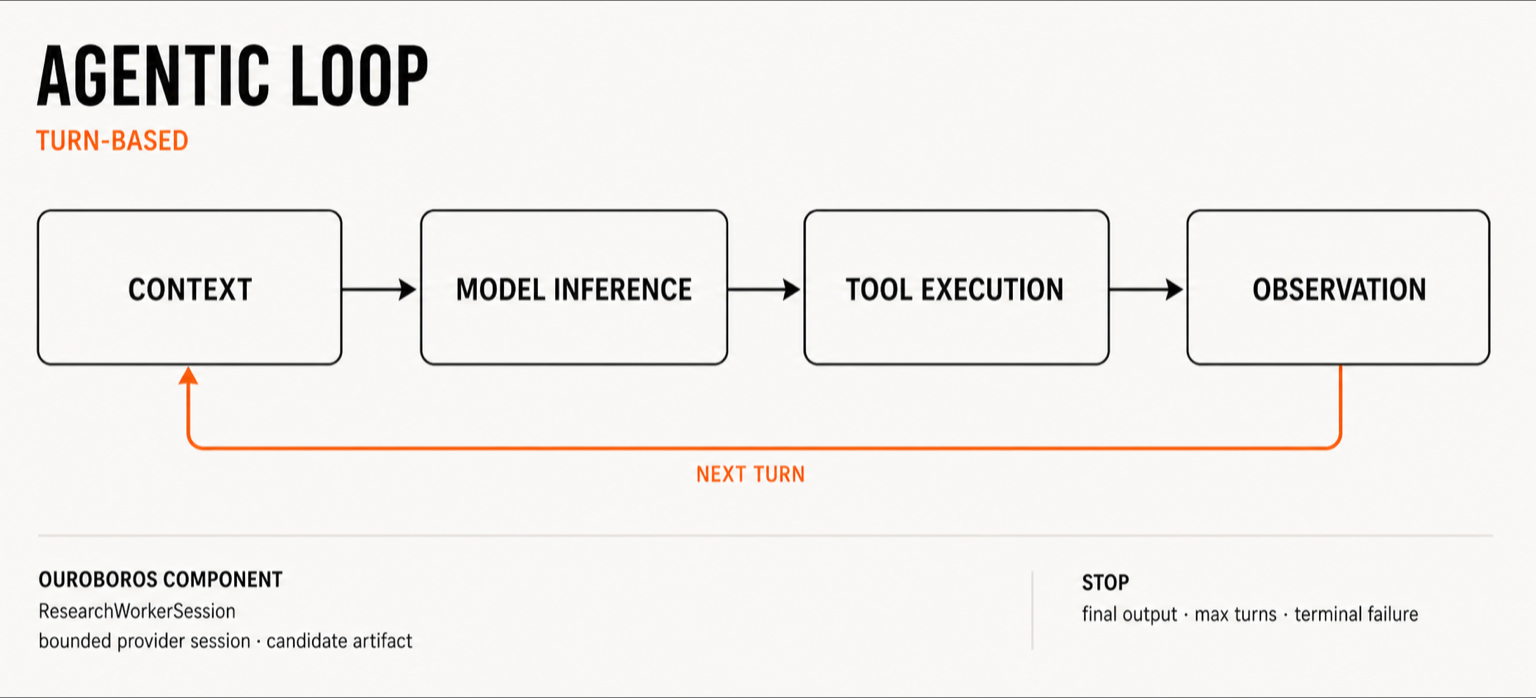
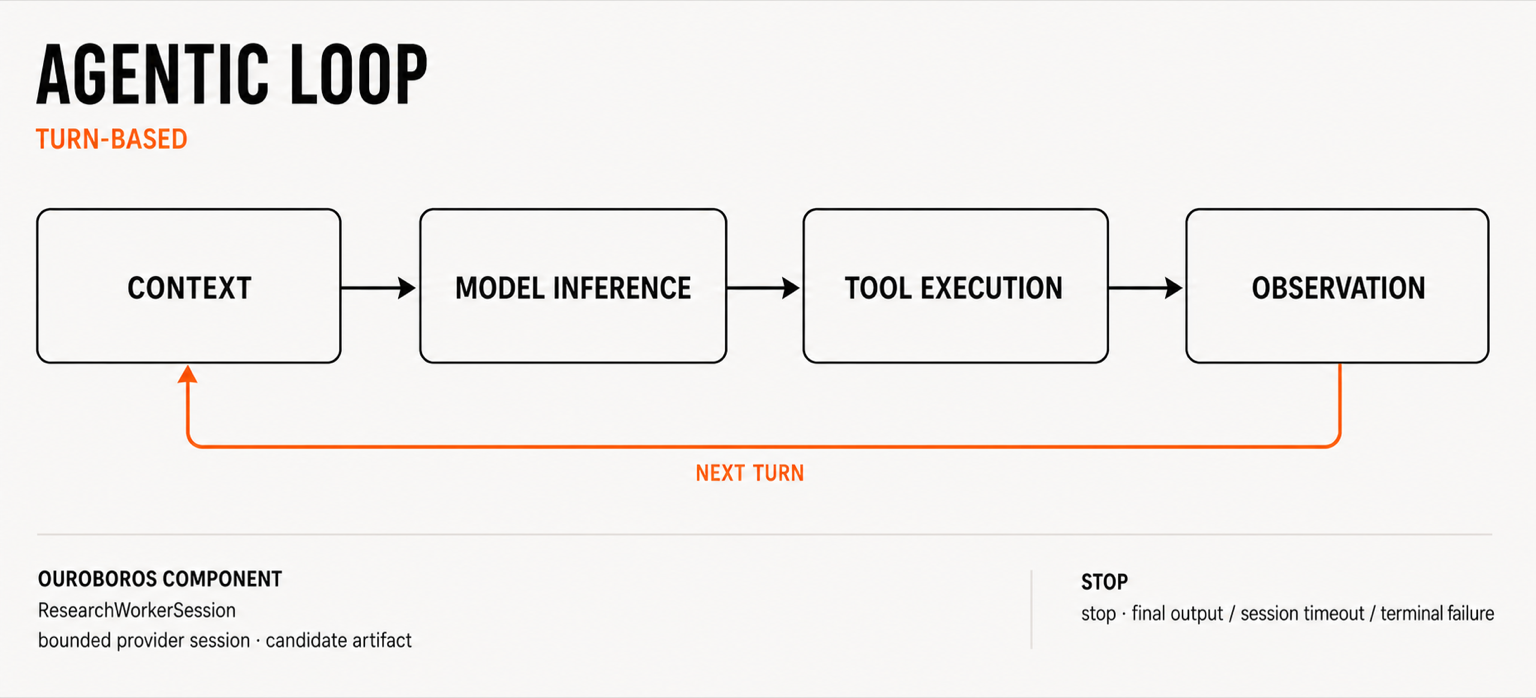
docs: align loop stop semantics

diff --git a/docs/superpowers/plans/2026-07-29-readme-loop-illustrations.md b/docs/superpowers/plans/2026-07-29-readme-loop-illustrations.md
@@ -98,7 +98,7 @@ Primary request: Explain one Agent Loop and why it repeats.
 Style reference: match the approved Ouroboros system-structure image exactly in background, line weight, typography, spacing, and orange use.
 Composition: one clockwise path around a wide soft rounded rectangle, never a circle. Large stages run left to right across the top and return along the bottom.
 Large text verbatim: "AGENTIC LOOP", "TURN-BASED", "CONTEXT", "MODEL INFERENCE", "TOOL EXECUTION", "OBSERVATION".
-Small text verbatim: "ResearchWorkerSession", "bounded provider session · candidate artifact", "stop · final output / max turns / terminal failure".
+Small text verbatim: "ResearchWorkerSession", "bounded provider session · candidate artifact", "stop · final output / session timeout / terminal failure".
 Color: black structure, orange return path from OBSERVATION to CONTEXT.
 Constraints: one loop only, strong hierarchy between large portable terms and small Ouroboros mapping, large calm whitespace.
 Avoid: other scopes, comparison grid, legend, headline, hands, people, robot, chart, logo, gradient, dark background, UI cards, shadow, 3D.
@@ -116,7 +116,8 @@ Style reference: match the approved Ouroboros system-structure image exactly in 
 Composition: one clockwise path around a wide soft rounded rectangle, never a circle. Large stages run left to right across the top and return along the bottom.
 Large text verbatim: "EVALUATION LOOP", "GOAL-BASED", "SUCCESS CRITERIA", "ITERATION", "EVALUATION", "SELECTION".
 Small text verbatim: "ResearchPreflightCommitment", "methodology · development + sealed-admission limits", "SystemCode · explicit frozen selection".
-Color: black structure, orange return path from EVALUATION to SUCCESS CRITERIA. SELECTION is a
+Color: black structure, orange return path from EVALUATION to ITERATION. SUCCESS CRITERIA is an
+immutable initial input and is not the target of the return path. SELECTION is a
 separate terminal node reached by one black arrow from EVALUATION and has no outgoing return.
 Constraints: one loop only, one purpose only, large calm whitespace.
 Avoid: other scopes, comparison grid, legend, headline, hands, people, robot, trading chart, logo, gradient, dark background, UI cards, shadow, 3D.

diff --git a/README.md b/README.md
@@ -143,8 +143,8 @@ modes, not exclusive runtime type constraints.
 
 The Agentic Loop repeats `context -> model inference -> tool execution -> observation` inside one
 bounded `ResearchWorkerSession`. Its purpose is to produce an attributable candidate artifact and
-stop at final output, the turn limit, or terminal failure. The model can propose actions and use
-tools; it cannot evaluate its own admission or grant trading authority.
+stop at final output, the enforced session timeout, or terminal failure. The model can propose
+actions and use tools; it cannot evaluate its own admission or grant trading authority.
 
 ### Evaluation loop — Goal-based
 
@@ -154,10 +154,11 @@ The Evaluation Loop starts from committed success criteria and iterates immutabl
 submissions against aggregate feedback. Before agent effects, `ResearchPreflightCommitment` binds
 the declared methodology plus development and sealed-admission suite identities, submission limits,
 and feedback-release policies; the session timeout is enforced separately. The worker may explicitly
-select one frozen `SystemCode` or finish without a submission. Feedback can start another development
-iteration only before that decision; selection, no submission, and fail-closed termination end the
-worker session and never return to mutable success criteria. This development evaluation still has
-no admission authority.
+select one frozen `SystemCode` or finish without a submission. Before that terminal decision,
+aggregate feedback can start another immutable development submission under the same committed
+criteria. Selection, no submission, and fail-closed termination close development without reopening
+the criteria or starting another iteration. This development evaluation still has no admission
+authority.
 
 ### Research loop — Time-based
 

diff --git a/docs/superpowers/specs/2026-07-29-readme-loop-illustrations-design.md b/docs/superpowers/specs/2026-07-29-readme-loop-illustrations-design.md
@@ -69,12 +69,14 @@ CONTEXT -> MODEL INFERENCE -> TOOL EXECUTION -> OBSERVATION -> CONTEXT
 
 - Representative mode: `TURN-BASED`
 - Small mapping: `ResearchWorkerSession`; one bounded provider session producing a candidate artifact
-- Stop: `final output`, `max turns`, more context required, or terminal failure
+- Stop: `final output`, enforced session timeout, more context required, or terminal failure
 
 ### 3. Evaluation Loop — Goal-based
 
 ```text
-SUCCESS CRITERIA -> ITERATION -> EVALUATION -> SUCCESS CRITERIA
+SUCCESS CRITERIA -> ITERATION -> EVALUATION
+                       ^              |
+                       +--------------+
                                       |
                                       +-> terminal SELECTION
 ```
